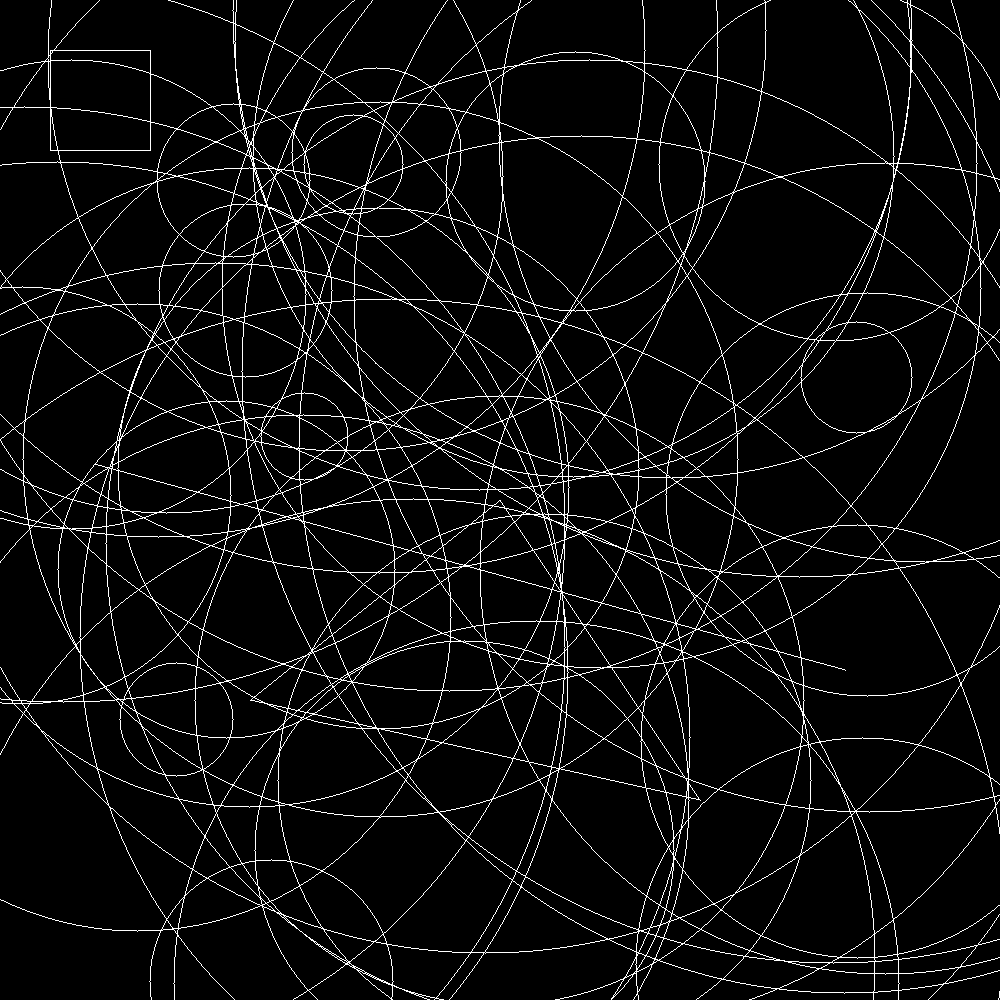
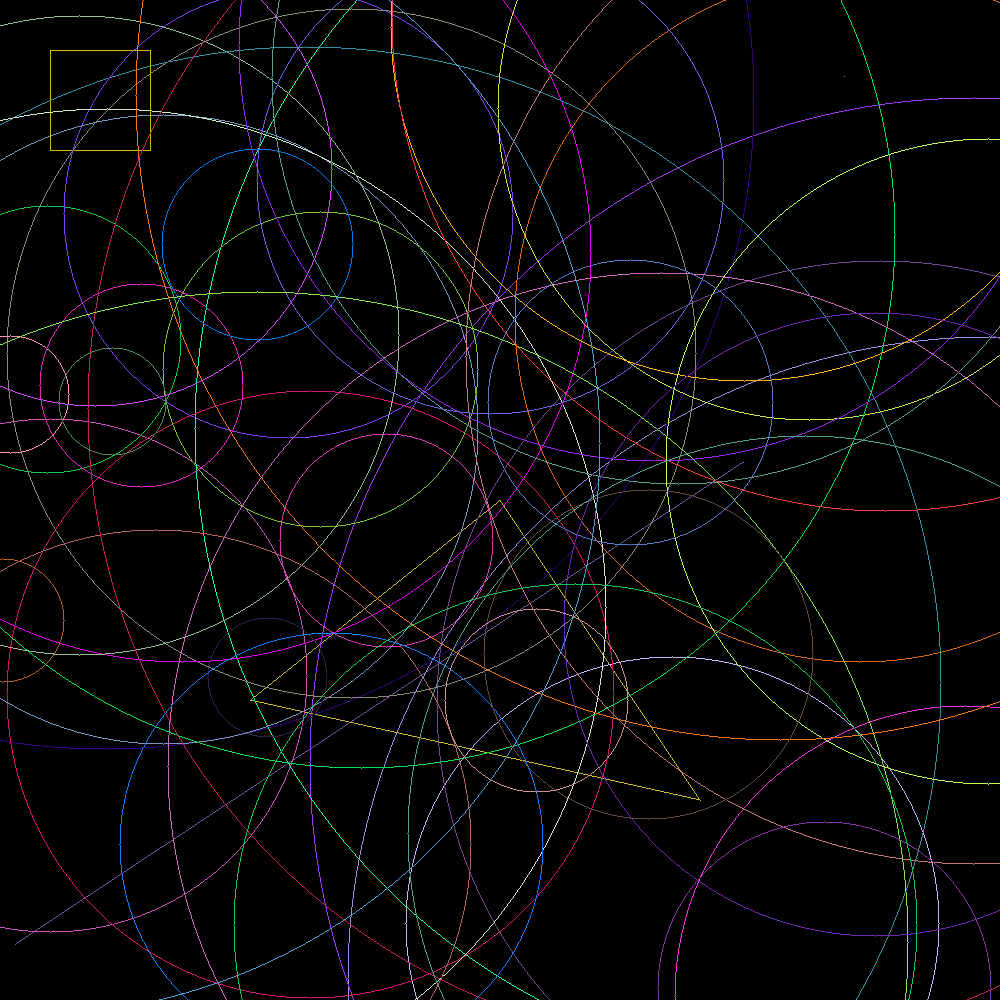
consistent colors for shapes

diff --git a/src/geometrical_shapes.rs b/src/geometrical_shapes.rs
@@ -1,15 +1,22 @@
 use super::*;
 use rand::random_range;
 
-// enum for colors (white, red, purple, ...)?
-// to pick them randomly with random range?
-// Red: Color(255, 0 ,0 , 255),
-
+fn random_color() -> Color {
+    Color {
+        r: random_range(0..=255),
+        g: random_range(0..=255),
+        b: random_range(0..=255),
+        a: 255,
+    }
+}
 //  ======= Traits =======
 
 pub trait Drawable {
     fn draw(&self, image: &mut Image);
-    fn color(&self) -> Color;
+
+    fn color(&self) -> Color {
+        random_color()
+    }
 }
 
 pub trait Displayable {
@@ -54,61 +61,13 @@ impl Point {
 impl Line {
     pub fn new(a: &Point, b: &Point) -> Self {
         Self(a.clone(), b.clone())
-        //Self(*a, *b)  // alternative way
     }
 
     pub fn random(max_x: i32, max_y: i32) -> Self {
         Line::new(&Point::random(max_x, max_y), &Point::random(max_x, max_y))
     }
-}
 
-impl Triangle {
-    pub fn new(a: &Point, b: &Point, c: &Point) -> Self {
-        Self(a.clone(), b.clone(), c.clone())
-    }
-}
-
-impl Rectangle {
-    pub fn new(a: &Point, b: &Point) -> Self {
-        Self(a.clone(), b.clone())
-    }
-}
-
-impl Circle {
-    pub fn new(center: &Point, radius: i32) -> Self {
-        Self {
-            center: center.clone(),
-            radius,
-        }
-    }
-
-    pub fn random(max_x: i32, max_y: i32) -> Self {
-        Circle::new(
-            &Point::random(max_x, max_y),
-            random_range(40..=(max_x + max_y) / 3),
-        )
-    }
-}
-
-//  ======= Implement Drawable =======
-
-impl Drawable for Point {
-    fn color(&self) -> Color {
-        Color::white()
-    }
-
-    fn draw(&self, image: &mut Image) {
-        // draw one pixel
-        image.display(self.x, self.y, self.color());
-    }
-}
-
-impl Drawable for Line {
-    fn color(&self) -> Color {
-        Color::white()
-    }
-
-    fn draw(&self, image: &mut Image) {
+    fn draw_with_color(&self, image: &mut Image, color: Color) {
         let x_length = self.1.x - self.0.x;
         let y_length = self.1.y - self.0.y;
         let is_steep = y_length.abs() > x_length.abs();
@@ -132,76 +91,122 @@ impl Drawable for Line {
             for x in start.x..=end.x {
                 let completion = (x as f64 - start.x as f64) / (end.x - start.x) as f64;
                 let y = completion * (end.y - start.y) as f64 + start.y as f64;
-                image.display(x, y as i32, self.color());
+                image.display(x, y as i32, color.clone());
             }
         } else {
             for y in start.y..=end.y {
                 let completion = (y as f64 - start.y as f64) / (end.y - start.y) as f64;
                 let x = completion * (end.x - start.x) as f64 + start.x as f64;
-                image.display(x as i32, y, self.color());
+                image.display(x as i32, y, color.clone());
             }
         }
     }
 }
 
-impl Drawable for Triangle {
-    fn color(&self) -> Color {
-        Color::white()
+impl Triangle {
+    pub fn new(a: &Point, b: &Point, c: &Point) -> Self {
+        Self(a.clone(), b.clone(), c.clone())
     }
 
-    fn draw(&self, image: &mut Image) {
-        // draw all lines between points
-        Line::new(&self.0, &self.1).draw(image);
-        Line::new(&self.1, &self.2).draw(image);
-        Line::new(&self.2, &self.0).draw(image);
+    fn draw_with_color(&self, image: &mut Image, color: Color) {
+        Line::new(&self.0, &self.1).draw_with_color(image, color.clone());
+        Line::new(&self.1, &self.2).draw_with_color(image, color.clone());
+        Line::new(&self.2, &self.0).draw_with_color(image, color.clone());
     }
 }
 
-impl Drawable for Rectangle {
-    fn color(&self) -> Color {
-        Color::white()
+impl Rectangle {
+    pub fn new(a: &Point, b: &Point) -> Self {
+        Self(a.clone(), b.clone())
     }
 
-    fn draw(&self, image: &mut Image) {
-        // work out all four points and draw lines in between
+    fn draw_with_color(&self, image: &mut Image, color: Color) {
         let a = &self.0;
         let b = &Point::new(self.0.x, self.1.y);
         let c = &self.1;
         let d = &Point::new(self.1.x, self.0.y);
 
-        Line::new(a, b).draw(image);
-        Line::new(b, c).draw(image);
-        Line::new(c, d).draw(image);
-        Line::new(d, a).draw(image);
+        Line::new(a, b).draw_with_color(image, color.clone());
+        Line::new(b, c).draw_with_color(image, color.clone());
+        Line::new(c, d).draw_with_color(image, color.clone());
+        Line::new(d, a).draw_with_color(image, color.clone());
+    }
+}
+
+impl Circle {
+    pub fn new(center: &Point, radius: i32) -> Self {
+        Self {
+            center: center.clone(),
+            radius,
+        }
+    }
+
+    pub fn random(max_x: i32, max_y: i32) -> Self {
+        Circle::new(
+            &Point::random(max_x, max_y),
+            random_range(40..=(max_x + max_y) / 3),
+        )
+    }
+}
+
+//  ======= Implement Drawable =======
+
+impl Drawable for Point {
+    fn draw(&self, image: &mut Image) {
+        image.display(self.x, self.y, self.color());
+    }
+}
+
+impl Drawable for Line {
+    fn draw(&self, image: &mut Image) {
+        self.draw_with_color(image, self.color());
+    }
+}
+
+impl Drawable for Triangle {
+    fn draw(&self, image: &mut Image) {
+        let color = self.color();
+        self.draw_with_color(image, color);
+    }
+}
+
+impl Drawable for Rectangle {
+    fn draw(&self, image: &mut Image) {
+        let color = self.color();
+        self.draw_with_color(image, color);
     }
 }
 
 impl Drawable for Circle {
-    fn color(&self) -> Color {
-        Color::white()
-    }
-
     fn draw(&self, image: &mut Image) {
-        // draw points according to Pythagoras, in two directions
+        let color = self.color();
 
-        let (start_x, end_x) = (self.center.x - self.radius, self.center.x + self.radius);
+        // draw upper and lower quarters of circle
+        let (start_x, end_x) = (
+            (self.center.x as f64 - self.radius as f64 / (2.0 as f64).sqrt()) as i32,
+            (self.center.x as f64 + self.radius as f64 / (2.0 as f64).sqrt()) as i32,
+        );
         for x in start_x..=end_x {
             let x_now = x - self.center.x;
             let y1 = ((self.radius.pow(2) - x_now.pow(2)) as f64).sqrt();
             let y2 = y1 * -1.0;
 
-            image.display(x, y1 as i32 + self.center.y, self.color());
-            image.display(x, y2 as i32 + self.center.y, self.color());
+            image.display(x, y1 as i32 + self.center.y, color.clone());
+            image.display(x, y2 as i32 + self.center.y, color.clone());
         }
 
-        let (start_y, end_y) = (self.center.y - self.radius, self.center.y + self.radius);
+        // draw left and right quarters of circle
+        let (start_y, end_y) = (
+            (self.center.y as f64 - self.radius as f64 / (2.0 as f64).sqrt()) as i32,
+            (self.center.y as f64 + self.radius as f64 / (2.0 as f64).sqrt()) as i32,
+        );
         for y in start_y..=end_y {
             let y_now = y - self.center.y;
             let x1 = ((self.radius.pow(2) - y_now.pow(2)) as f64).sqrt();
             let x2 = x1 * -1.0;
 
-            image.display(x1 as i32 + self.center.x, y, self.color());
-            image.display(x2 as i32 + self.center.x, y, self.color());
+            image.display(x1 as i32 + self.center.x, y, color.clone());
+            image.display(x2 as i32 + self.center.x, y, color.clone());
         }
     }
 }
